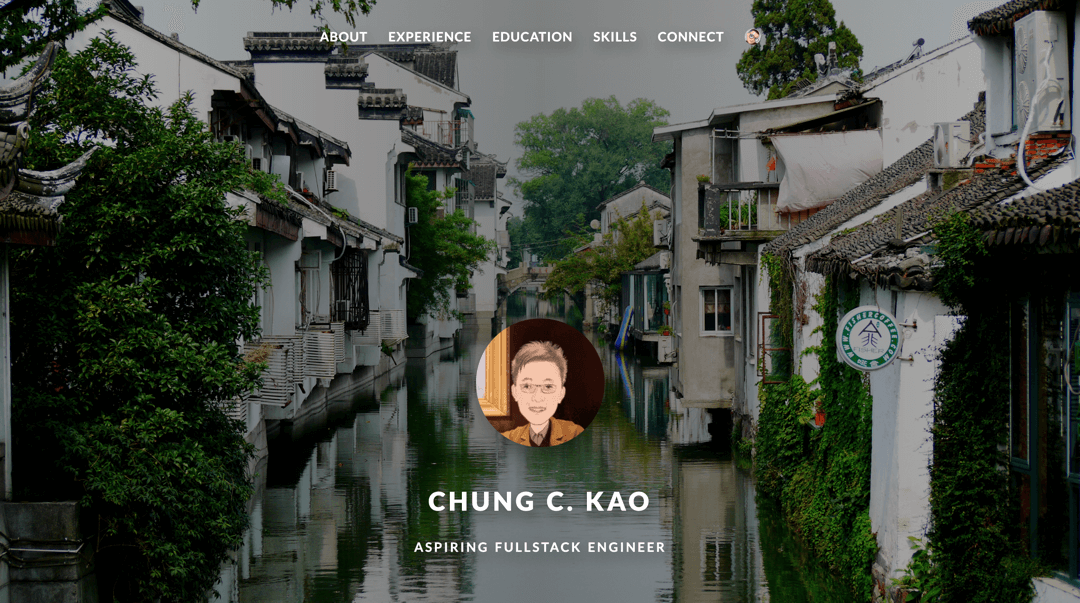
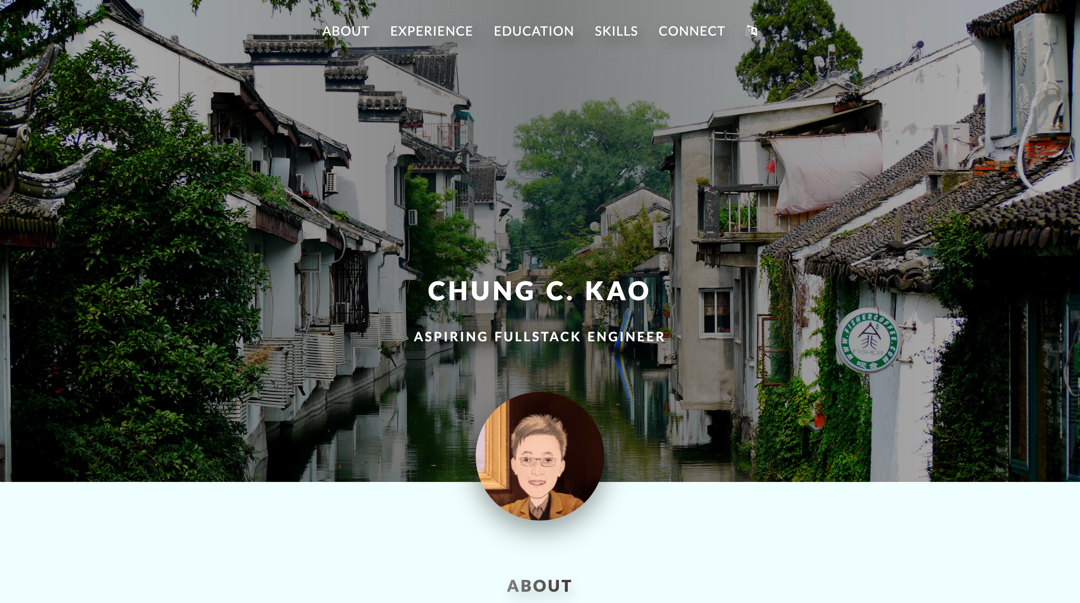
Touch up the appearance of the hero image

diff --git a/css/index.css b/css/index.css
@@ -118,8 +118,9 @@ button:hover {
   flex-flow: column nowrap;
   justify-content: flex-end;
   align-items: center;
-  height: 100vh;
+  height: 80vh;
   width: 100%;
+  margin-bottom: 6rem;
   color: white;
   text-align: center;
   text-transform: uppercase;
@@ -130,47 +131,7 @@ button:hover {
       rgba(0, 0, 0, 0.5) 50%,
       rgba(0, 0, 0, 0.3) 100%
     ),
-    center / cover url(../img/hero.jpg);
-}
-
-.avatar {
-  width: 20rem;
-  border-radius: 50%;
-  margin-bottom: 5rem;
-  box-shadow: 0 1.5rem 4rem rgba(0, 0, 0, 0.4);
-  transition: all 0.3s ease;
-  animation: moveInBottom 0.5s ease-out 0.75s;
-  animation-fill-mode: backwards;
-}
-
-.avatar:hover {
-  transform: scale(1.05) translateY(-0.5rem);
-  box-shadow: 0 2.5rem 4rem rgba(0, 0, 0, 0.5);
-}
-
-.heading {
-  margin-bottom: 5rem;
-  backface-visibility: hidden;
-}
-
-.heading-primary {
-  font-size: 3.5rem;
-  font-weight: 900;
-  letter-spacing: 0.5rem;
-  animation: moveInLeft 1s ease-out;
-}
-
-.tag-line {
-  font-weight: 700;
-  font-size: 1.5rem;
-  writing-mode: horizontal-tb;
-  animation: moveInRight 1s ease-out;
-}
-
-.heading-secondary,
-.tag-line {
-  letter-spacing: 0.3rem;
-  padding: 2rem 0;
+    top / cover url(../img/hero.jpg);
 }
 
 .navbar {
@@ -228,6 +189,46 @@ button:hover,
 button:active,
 .skill-logo:active {
   transform: scale(1) translateX(-1px) translateY(2px);
+}
+
+.avatar {
+  width: 20rem;
+  border-radius: 50%;
+  margin-bottom: -6rem;
+  box-shadow: 0 1.5rem 4rem rgba(0, 0, 0, 0.4);
+  transition: all 0.3s ease;
+  animation: moveInTop 0.5s ease-out 0.75s;
+  animation-fill-mode: backwards;
+}
+
+.avatar:hover {
+  transform: scale(1.05) translateY(-0.5rem);
+  box-shadow: 0 2.5rem 4rem rgba(0, 0, 0, 0.5);
+}
+
+.heading {
+  margin-bottom: 5rem;
+  backface-visibility: hidden;
+}
+
+.heading-primary {
+  font-size: 3.5rem;
+  font-weight: 900;
+  letter-spacing: 0.5rem;
+  animation: moveInLeft 1s ease-out;
+}
+
+.tag-line {
+  font-weight: 700;
+  font-size: 1.5rem;
+  writing-mode: horizontal-tb;
+  animation: moveInRight 1s ease-out;
+}
+
+.heading-secondary,
+.tag-line {
+  letter-spacing: 0.3rem;
+  padding: 2rem 0;
 }
 
 /* Main Content */
@@ -554,10 +555,10 @@ textarea {
   }
 }
 
-@keyframes moveInBottom {
+@keyframes moveInTop {
   0% {
     opacity: 0;
-    transform: translateY(3rem);
+    transform: translateY(-3rem);
   }
 
   100% {

diff --git a/index.html b/index.html
@@ -53,21 +53,6 @@
       </button>
 
       <header class="header">
-        <img
-          src="img/avatar.jpg"
-          loading="lazy"
-          alt="Avatar of Chung Kao"
-          class="avatar"
-        />
-        <div class="heading">
-          <h1 class="heading-primary">
-            <span class="en">Chung C. Kao</span><span class="cn">高崇中</span>
-          </h1>
-          <p class="tag-line">
-            <span class="en">Aspiring fullstack engineer</span
-            ><span class="cn">即為全棧網路工程師</span>
-          </p>
-        </div>
         <nav class="navbar">
           <ul class="nav-menu">
             <li>
@@ -102,6 +87,21 @@
             </li>
           </ul>
         </nav>
+        <div class="heading">
+          <h1 class="heading-primary">
+            <span class="en">Chung C. Kao</span><span class="cn">高崇中</span>
+          </h1>
+          <p class="tag-line">
+            <span class="en">Aspiring fullstack engineer</span
+              ><span class="cn">即為全棧網路工程師</span>
+          </p>
+        </div>
+        <img
+          src="img/avatar.jpg"
+          loading="lazy"
+          alt="Avatar of Chung Kao"
+          class="avatar"
+        />
       </header>
 
       <main class="main-content">
